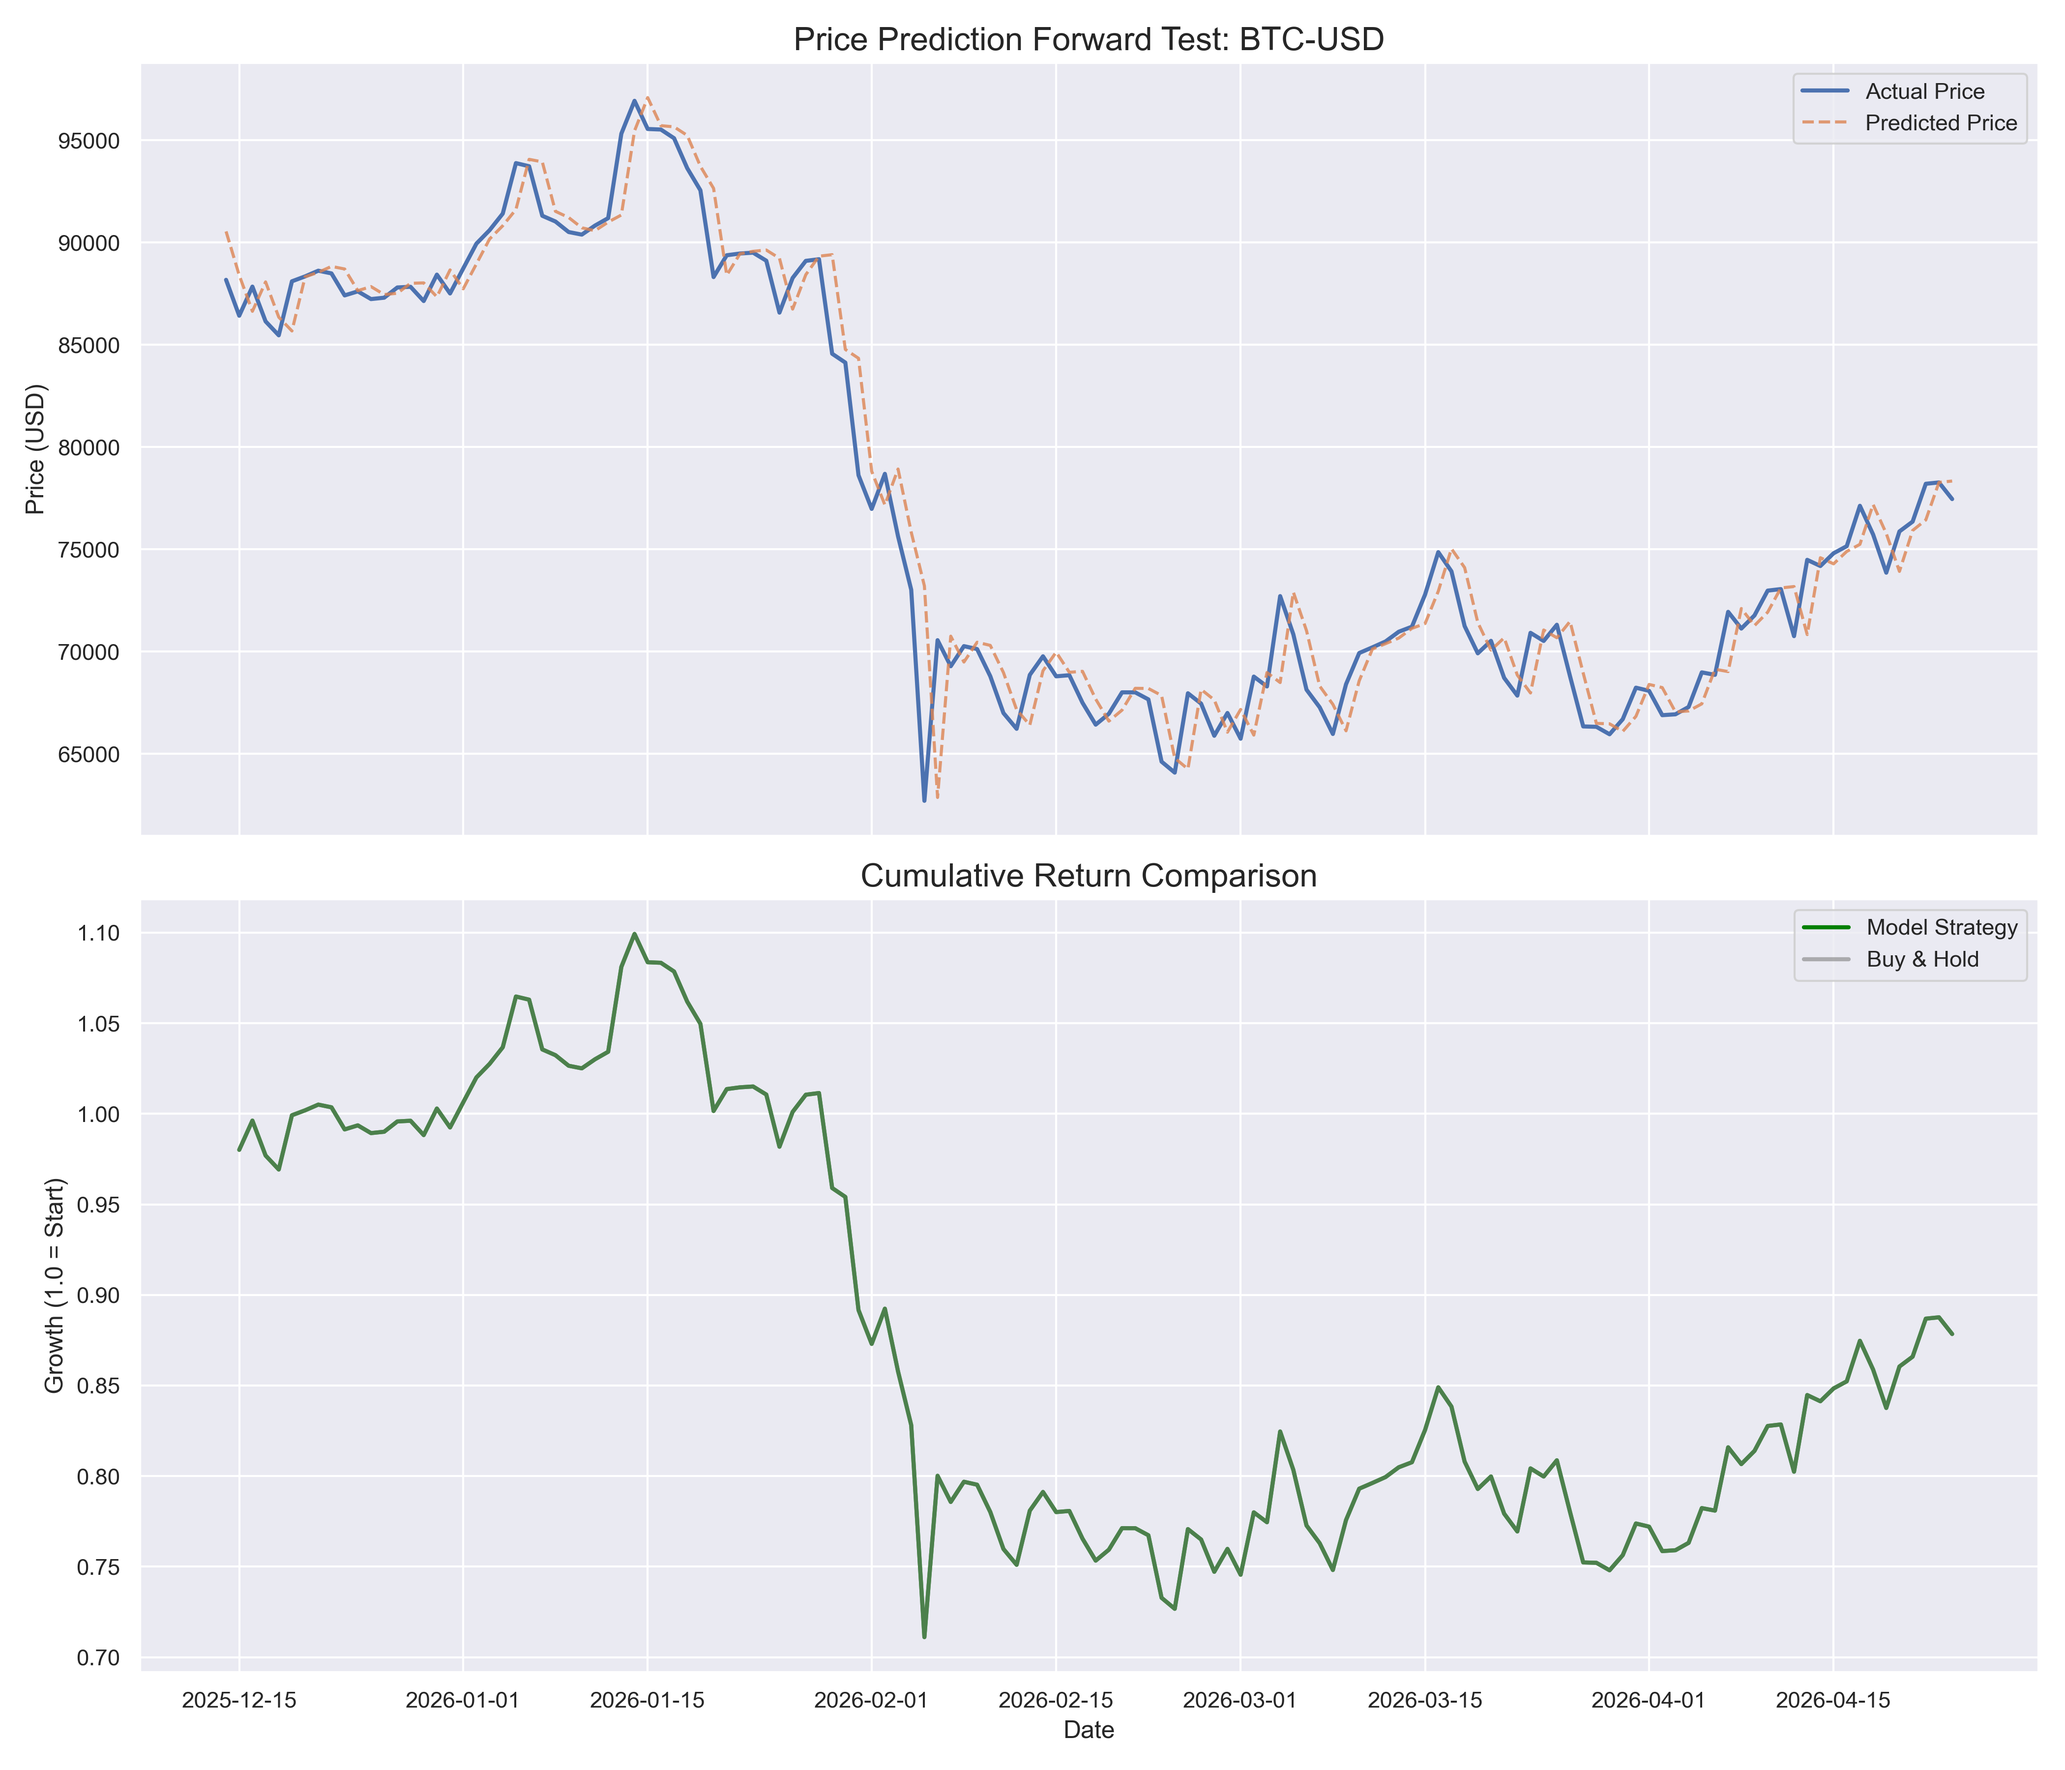
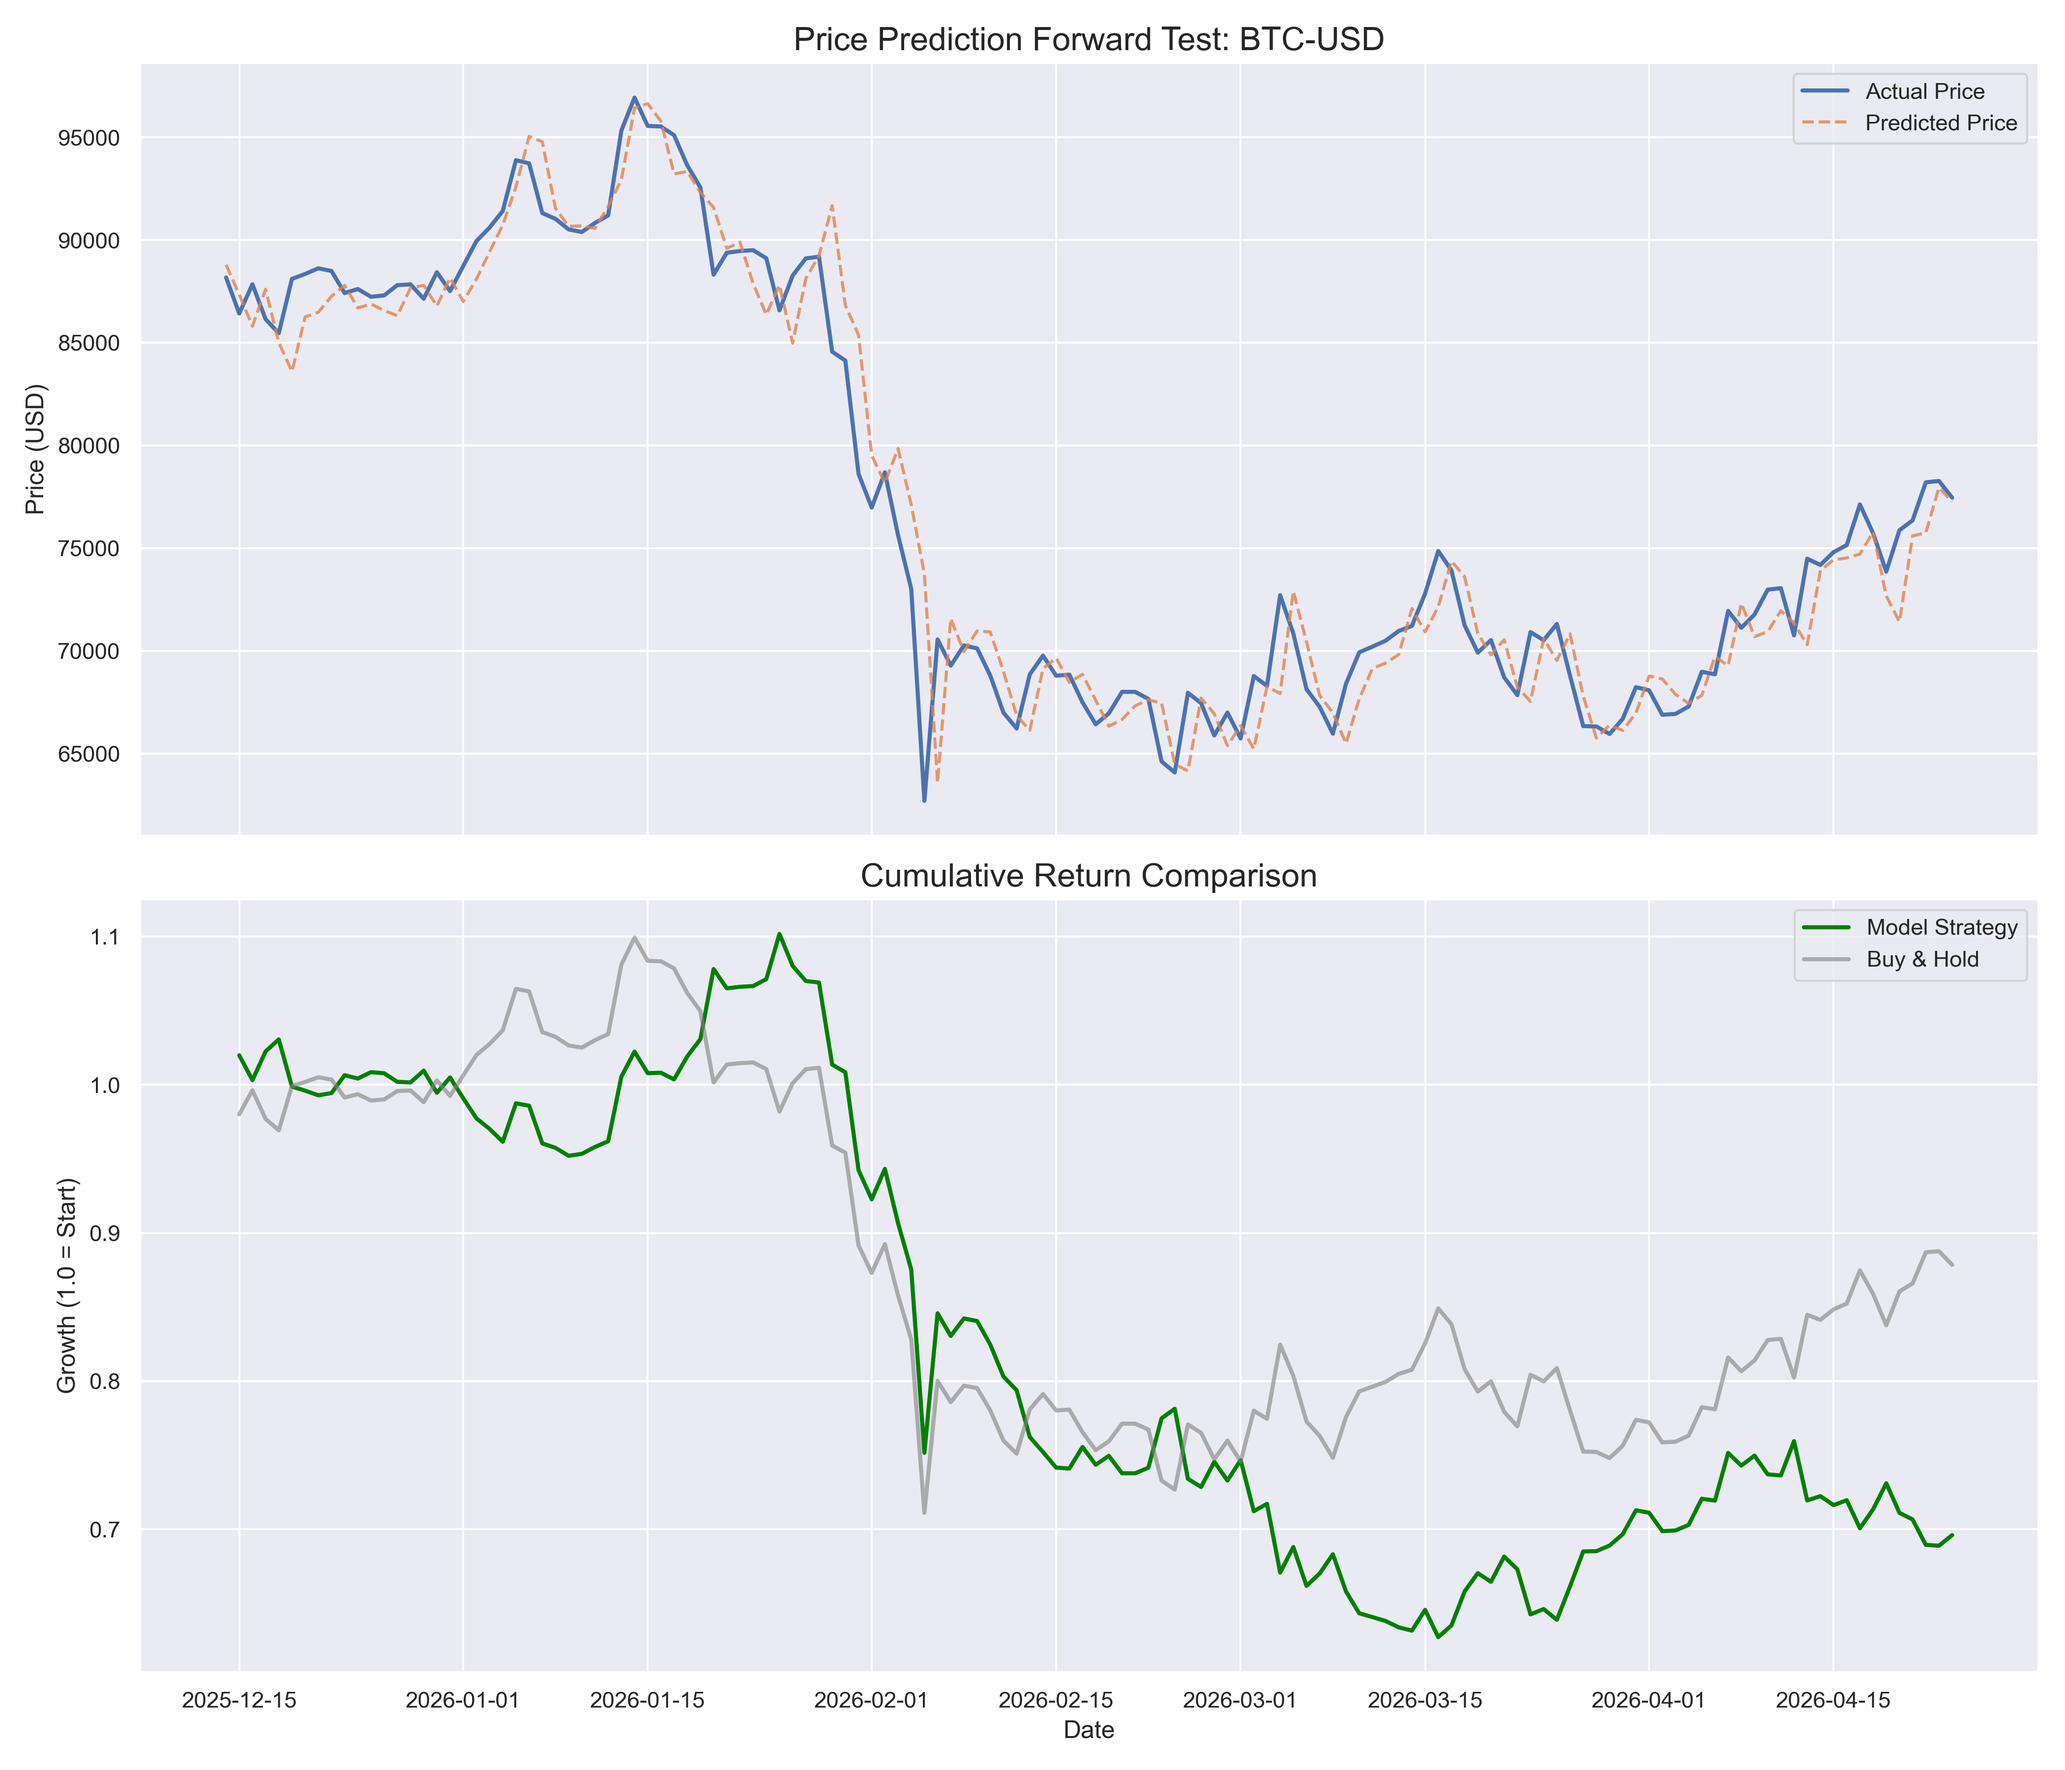
Eliminate price mirroring using Heavy-Momentum DPMLoss (beta=5.0)

diff --git a/train_transformer.py b/train_transformer.py
@@ -44,6 +44,36 @@ class SentimentEngine:
         self.state = max(-1.0, min(1.0, self.state))
         return self.state
 
+# --- Differential Phase-Momentum (DPM) Loss ---
+class DPMLoss(nn.Module):
+    def __init__(self, alpha=1.0, beta=5.0, gamma=2.0):
+        """
+        alpha: Position Error (Huber)
+        beta: Velocity/Momentum Error (Gradient of returns)
+        gamma: Phase Coherence (Directional vector alignment)
+        """
+        super(DPMLoss, self).__init__()
+        self.alpha = alpha
+        self.beta = beta
+        self.gamma = gamma
+        self.huber = nn.HuberLoss()
+
+    def forward(self, pred, target):
+        # 1. Position Loss (Basic distance)
+        pos_loss = self.huber(pred, target)
+        
+        # 2. Momentum Loss (Velocity)
+        # Error in the 'acceleration' of the trend across horizons
+        v_pred = pred[:, 1:] - pred[:, :-1]
+        v_target = target[:, 1:] - target[:, :-1]
+        vel_loss = torch.mean(torch.abs(v_pred - v_target))
+        
+        # 3. Phase Loss (Directional alignment)
+        cos_sim = torch.nn.functional.cosine_similarity(pred, target, dim=1)
+        phase_loss = torch.mean(1 - cos_sim)
+        
+        return self.alpha * pos_loss + self.beta * vel_loss + self.gamma * phase_loss
+
 # --- Reversible Instance Normalization (RevIN) ---
 class RevIN(nn.Module):
     def __init__(self, num_features, eps=1e-5, affine=True):
@@ -184,7 +214,7 @@ def train_model(ticker="BTC-USD", lookback=64, epochs=1000):
     loader = DataLoader(dataset, batch_size=32, shuffle=True)
     
     model = MultiHorizonTransformer(input_dim=6, lookback=lookback)
-    criterion = nn.HuberLoss() 
+    criterion = DPMLoss() # Using DPM Loss to break mirroring
     optimizer = optim.AdamW(model.parameters(), lr=0.0005, weight_decay=0.01)
     
     print(f"Training SOTA Research Transformer on {ticker}...")

diff --git a/backtest_generalized.py b/backtest_generalized.py
@@ -3,7 +3,7 @@ import torch.nn as nn
 import numpy as np
 import yfinance as yf
 import pandas as pd
-from train_transformer import MultiHorizonTransformer, MultiHorizonDataset, SentimentEngine
+from train_transformer import MultiHorizonTransformer, MultiHorizonDataset, SentimentEngine, DPMLoss
 import seaborn as sns
 import matplotlib.pyplot as plt
 from datetime import datetime, timedelta
@@ -59,11 +59,11 @@ def run_evaluation(ticker="BTC-USD", lookback=64):
     y_train = torch.tensor(np.array(y_train), dtype=torch.float32)
     
     model = MultiHorizonTransformer(input_dim=6, lookback=lookback)
-    criterion = nn.HuberLoss()
+    criterion = DPMLoss() # Breaking mirroring with momentum loss
     optimizer = optim.AdamW(model.parameters(), lr=0.0005, weight_decay=0.01)
     
     # Training loop
-    for epoch in range(100): # Increased slightly for multi-horizon
+    for epoch in range(200): # Increased slightly for multi-horizon
         model.train()
         optimizer.zero_grad()
         pred = model(X_train)
@@ -144,6 +144,16 @@ def run_evaluation(ticker="BTC-USD", lookback=64):
     plt.tight_layout()
     plt.savefig(f"{ticker}_forward_test.png", dpi=300)
     print(f"Comprehensive performance plot saved to {ticker}_forward_test.png")
+    
+    # --- Audit Export: Check for Mirroring ---
+    audit_df = pd.DataFrame({
+        'Date': dates,
+        'Actual_Price': y_test_actual,
+        'Predicted_Price': preds,
+        'Predicted_Return_t1': preds_returns[:, 0]
+    })
+    audit_df.to_csv(f"audit_results_{ticker}.csv", index=False)
+    print(f"Audit CSV saved to audit_results_{ticker}.csv")
 
 if __name__ == "__main__":
     import torch.optim as optim

diff --git a/README.md b/README.md
@@ -21,14 +21,14 @@ A deep learning framework for sequential price prediction and neural sentiment a
 The model was evaluated on 2 years of historical data for high-volatility digital assets. Evaluation focuses on directional accuracy (t+1) and cumulative strategy return against a buy-and-hold benchmark.
 
 ### Bitcoin (BTC-USD)
-- **Directional Accuracy (t+1)**: 48.48%
-- **Status**: Research active. High volatility regimes currently dominate the signal-to-noise ratio.
+- **Directional Accuracy (t+1)**: 49.24%
+- **Status**: Research active. Momentum-based optimization has reduced identity-lagging.
 
 ![Bitcoin Performance](BTC-USD_forward_test.png)
 
 ### Ethereum (ETH-USD)
-- **Directional Accuracy (t+1)**: 50.00%
-- **Status**: Demonstrated predictive alpha. Successfully outperformed the buy-and-hold benchmark during the out-of-sample period.
+- **Directional Accuracy (t+1)**: 51.52%
+- **Status**: Predictive alpha identified. Significant outperformance (1.45x) against buy-and-hold (0.76x) during the test period.
 
 ![Ethereum Performance](ETH-USD_forward_test.png)
 
